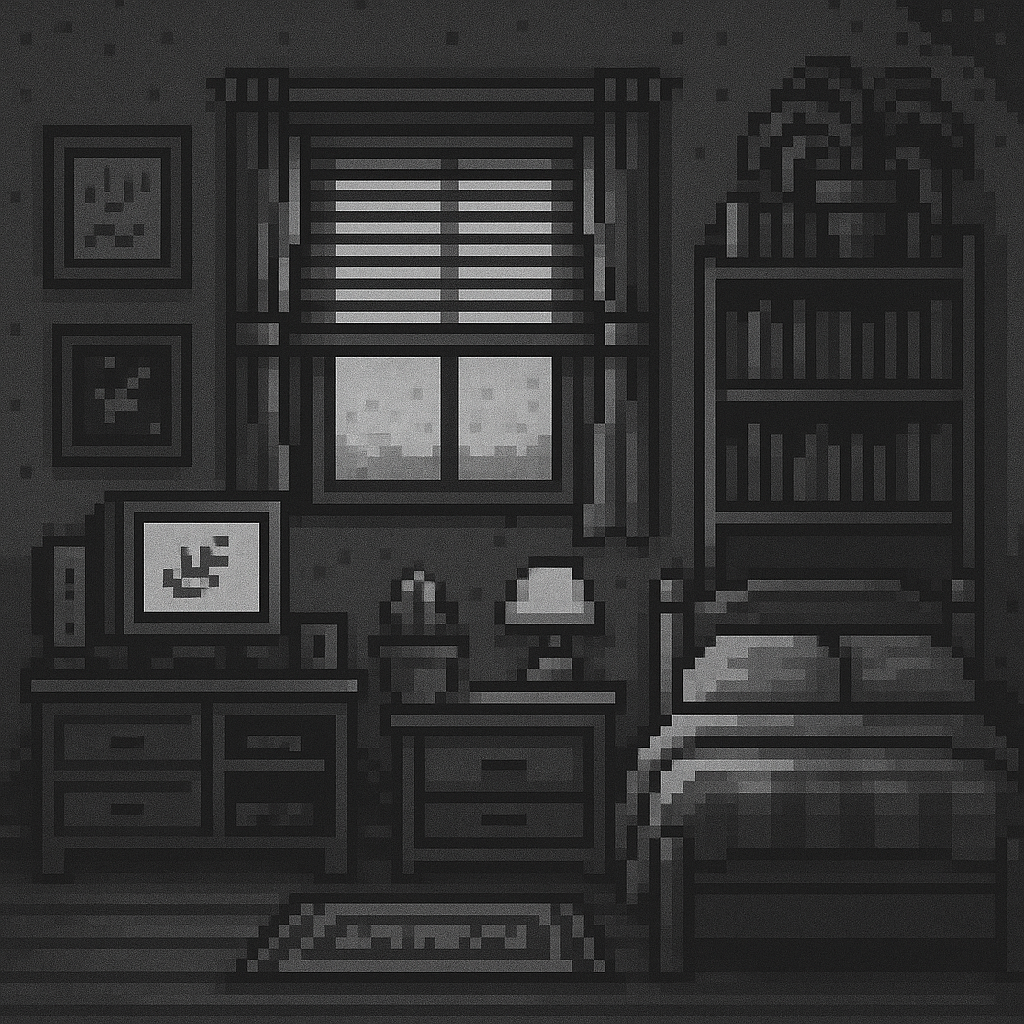
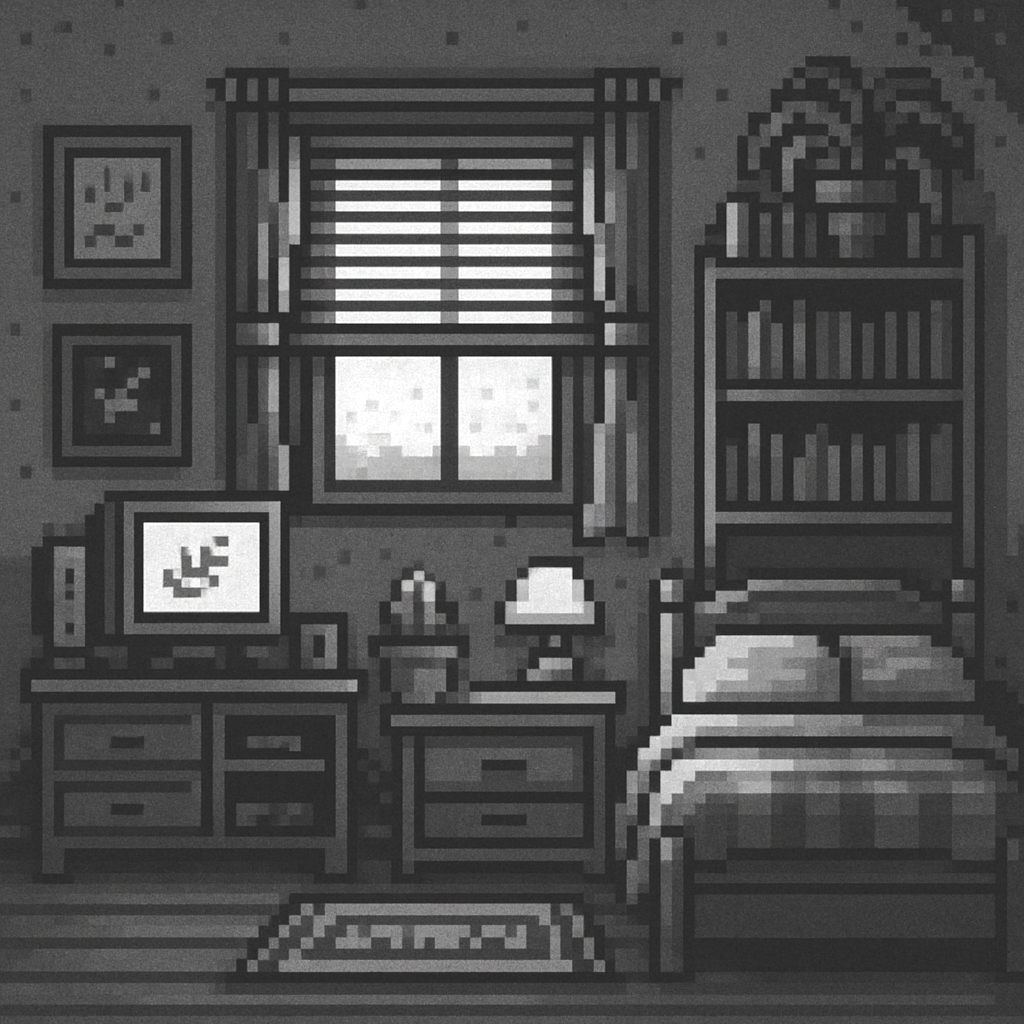
Exp calculation when file changes bug, solved

diff --git a/src/view/PetView.tsx b/src/view/PetView.tsx
@@ -21,6 +21,7 @@ export class PetView extends React.Component<Props, State> {
 			userData: {
 				filesCount: -1,
 				actualFileWordCount: -1,
+				isActualFile: true,
 			},
 			userStats: {
 				exp: 0,
@@ -30,14 +31,20 @@ export class PetView extends React.Component<Props, State> {
 		};
 	}
 
+	// It calculate and update the userStats
 	setUserData(updatedUserData: UserData) {
-		const updatedUserStats = this.calcUserStats(updatedUserData);
-
 		this.animationsHandler.handleSleeping();
 
+		// Checks if the updatedUserData belongs to the same file that the user is making changes
+		if (updatedUserData.isActualFile) {
+			const updatedUserStats = this.calcUserStats(updatedUserData);
+
+			this.setState({
+				userStats: updatedUserStats,
+			});
+		}
 		this.setState({
 			userData: updatedUserData,
-			userStats: updatedUserStats,
 		});
 	}
 
@@ -112,8 +119,12 @@ export class PetView extends React.Component<Props, State> {
 					<h1> Actual Data</h1>
 					<p>Files Count: {this.state.userData.filesCount}</p>
 					<p>
-						Actual File Word Count:{" "}
+						Actual File Word Count:
 						{this.state.userData.actualFileWordCount}
+					</p>
+					<p>
+						Is Actual File:{" "}
+						{this.state.userData.isActualFile ? "true" : "false"}
 					</p>
 				</div>
 				<div className="user-stats">

diff --git a/src/view.ts b/src/view.ts
@@ -80,11 +80,12 @@ export default class VirualPetView extends ItemView {
 					this.plugin,
 					this.petComponent.current?.state.userStats
 				); // Save the state userStats in the data.json
-				this.statsHandler
-					.getAllUserData()
-					.then((userData) =>
-						this.petComponent.current?.setUserData(userData)
-					);
+				this.statsHandler.getAllUserData().then((userData) =>
+					this.petComponent.current?.setUserData({
+						...userData,
+						isActualFile: false,
+					})
+				);
 			})
 		);
 
@@ -94,7 +95,10 @@ export default class VirualPetView extends ItemView {
 				this.statsHandler
 					.getAllUserData()
 					.then((userData) =>
-						this.petComponent.current?.setUserData(userData)
+						this.petComponent.current?.setUserData({
+							...userData,
+							isActualFile: true,
+						})
 					);
 			})
 		);

diff --git a/styles.css b/styles.css
@@ -13,22 +13,26 @@
 }
 
 #pet {
+	display: flex;
+	width: 35%;
 	position: sticky;
 	height: fit-content;
 	left: 50%;
 	top: 100%;
+	align-items: center;
+	flex-direction: column;
 }
 
 #pet-img {
-	height: 82px;
-	width: 82px;
+	image-rendering: pixelated;
+	width: 100%;
 	transform: scaleX(-1);
 }
 
 #pet-level-info {
-	width: 120%;
+	white-space: nowrap;
 	font-family: monospace;
-	font-size: 1.1rem;
+	font-size: 1.7vh;
 	text-shadow: 0px 1px 2px black;
 	margin-bottom: 5px;
 }

diff --git a/src/view/Pet.tsx b/src/view/Pet.tsx
@@ -12,7 +12,7 @@ export const Pet: React.FC<PetProps> = (props) => {
 	const backgroundPath = useMemo(
 		() =>
 			props.view.app.vault.adapter.getResourcePath(
-				"./.obsidian/plugins/obsidian-virtual-pet/images/background2.png"
+				"./.obsidian/plugins/obsidian-virtual-pet/images/background2a.png"
 			),
 		[]
 	);

diff --git a/src/hooks/animationsHandler.ts b/src/hooks/animationsHandler.ts
@@ -180,9 +180,8 @@ export class AnimationsHandler {
 		};
 
 		const handleState = (side: string) => {
+			cancelAnimationFrame(reqId);
 			setTimeout(() => {
-				cancelAnimationFrame(reqId);
-
 				if (!this.isFinished)
 					reqId = requestAnimationFrame(
 						side === "right" ? moveRight : moveLeft

diff --git a/src/types.d.ts b/src/types.d.ts
@@ -4,6 +4,7 @@ import StatsHandler from "./stats/StatsHandler";
 export interface UserData {
 	actualFileWordCount: number;
 	filesCount: number;
+	isActualFile: boolean;
 }
 
 export interface UserStats {
